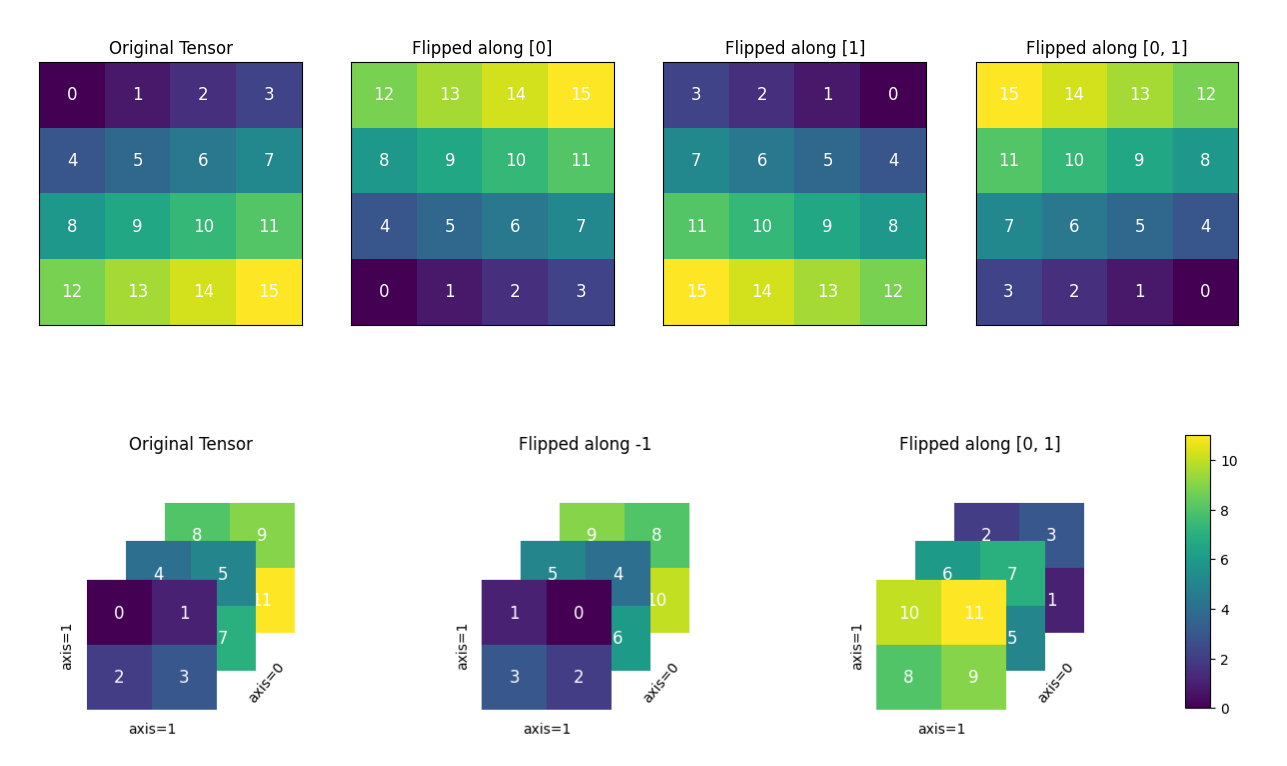
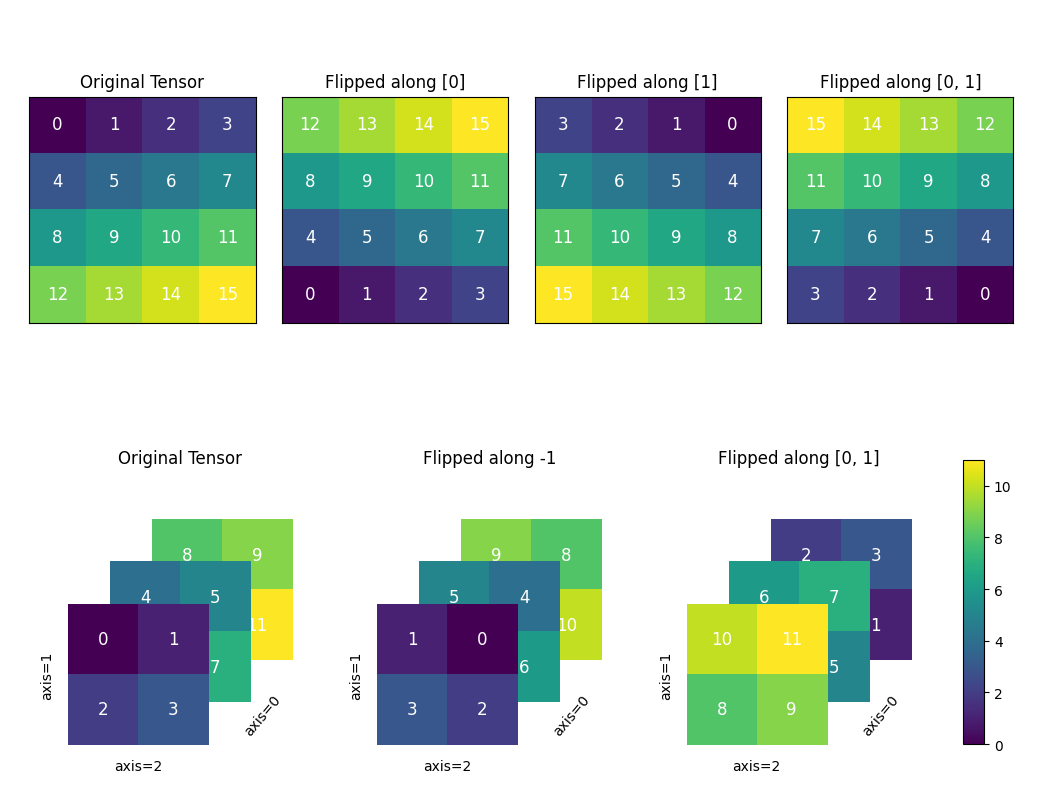
修改flip图例

diff --git a/docs/api/paddle/flip_cn.rst b/docs/api/paddle/flip_cn.rst
@@ -10,7 +10,7 @@ flip
 
 沿指定轴反转 n 维 Tensor。
 
-下图展示了一个 flip 的情形——一个形状为[4,4]的二维张量在指定轴上进行翻转。通过比较，可以清晰地看到张量在翻转前后的变化。图例中展示了沿不同轴进行翻转的结果。
+下图展示了 flip 在 2 维和 3 维张量上的情形——一个形状为[4,4]的二维张量以及一个形状为[3,2,2]的三维张量在指定轴上进行翻转。通过比较，可以清晰地看到张量在翻转前后的变化。图例中展示了沿不同轴进行翻转的结果。
 
 .. image:: ../../images/api_legend/flip.png
     :width: 600
